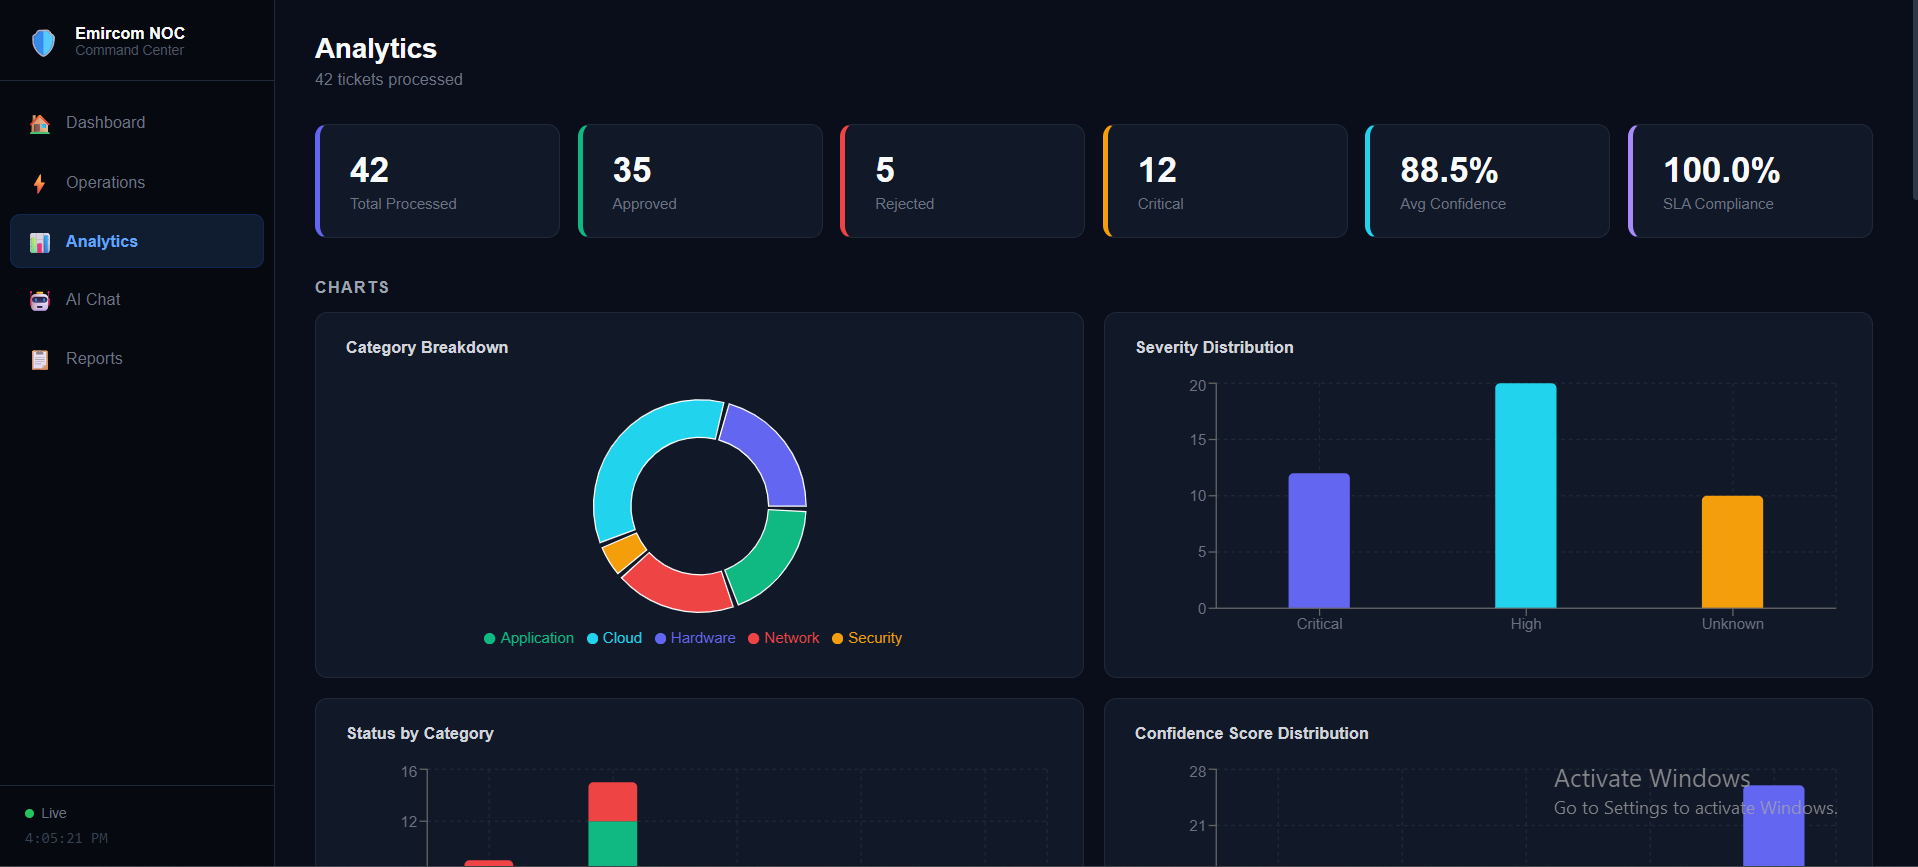
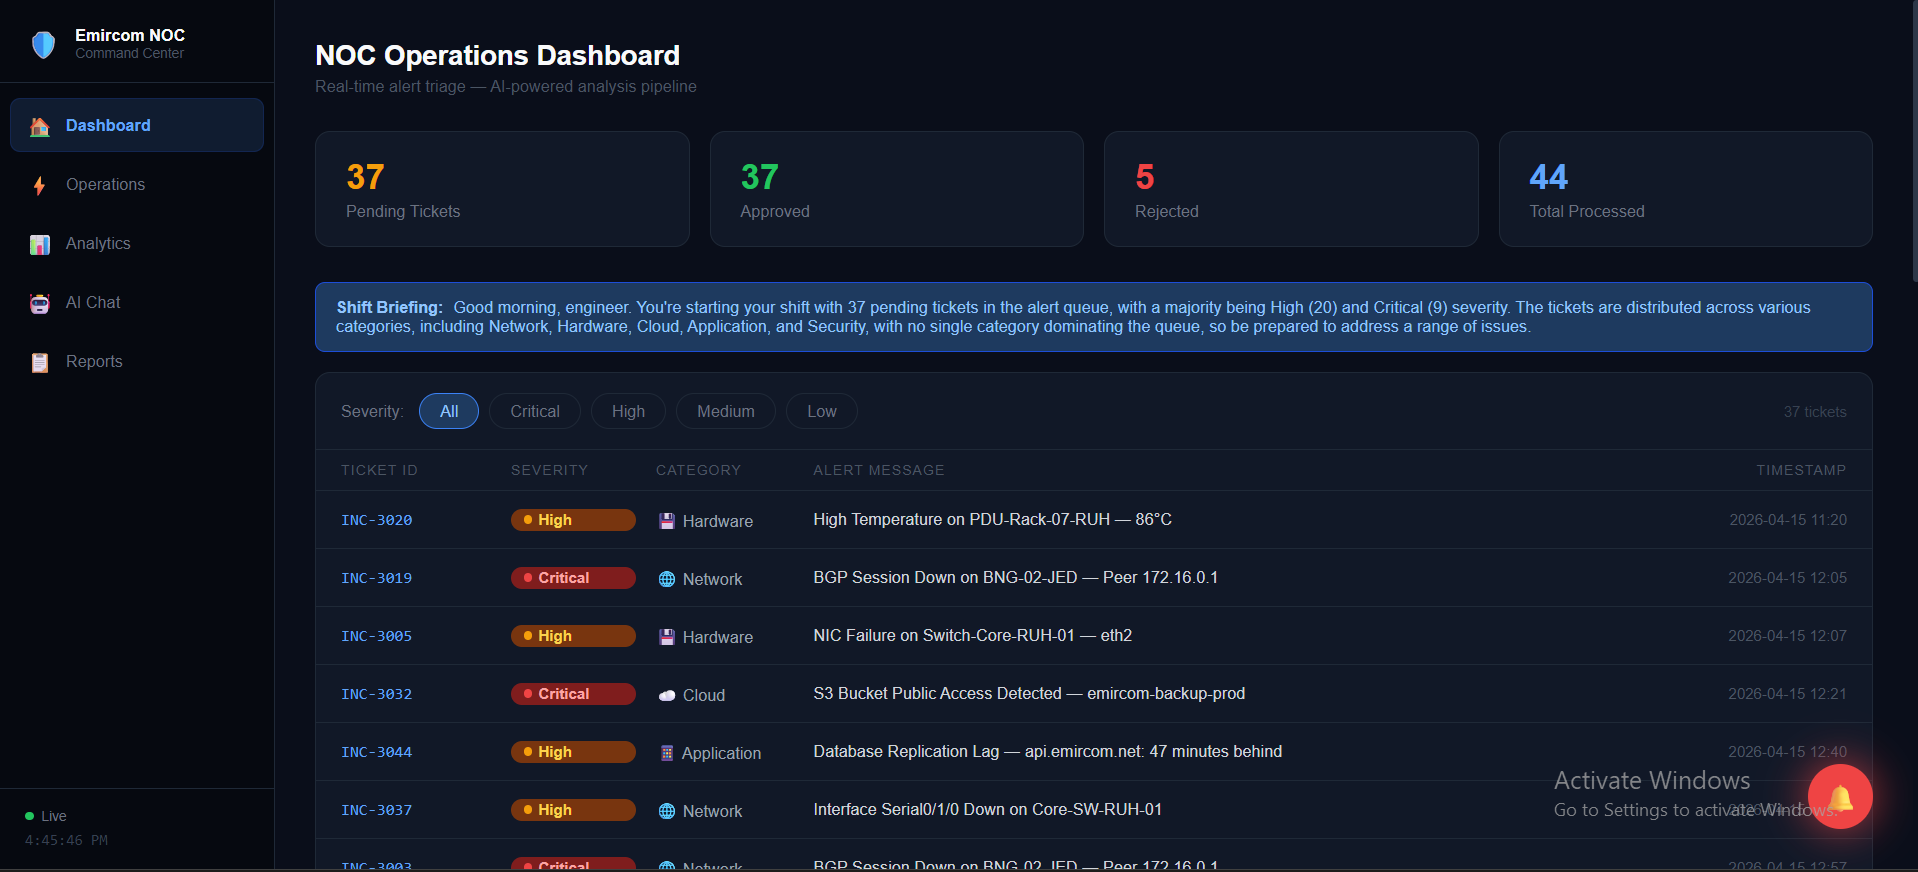
Add Analytics screenshot and update Dashboard image

diff --git a/README.md b/README.md
@@ -10,13 +10,13 @@ An AI-powered Network Operations Centre (NOC) triage system built as a final-yea
 |-----------|------------------|
 | ![Dashboard](docs/screenshots/Dashboard.png) | ![Operations](docs/screenshots/Operations.png) |
 
-| AI Chat | Email Notification |
-|---------|-------------------|
-| ![AI Chat](docs/screenshots/chatbot.png) | ![Email](docs/screenshots/email.png) |
+| Analytics | AI Chat |
+|-----------|---------|
+| ![Analytics](docs/screenshots/Analytics.png) | ![AI Chat](docs/screenshots/chatbot.png) |
 
-| Reports |
-|---------|
-| ![Reports](docs/screenshots/reports.png) |
+| Email Notification | Reports |
+|-------------------|---------|
+| ![Email](docs/screenshots/email.png) | ![Reports](docs/screenshots/reports.png) |
 
 ---
 